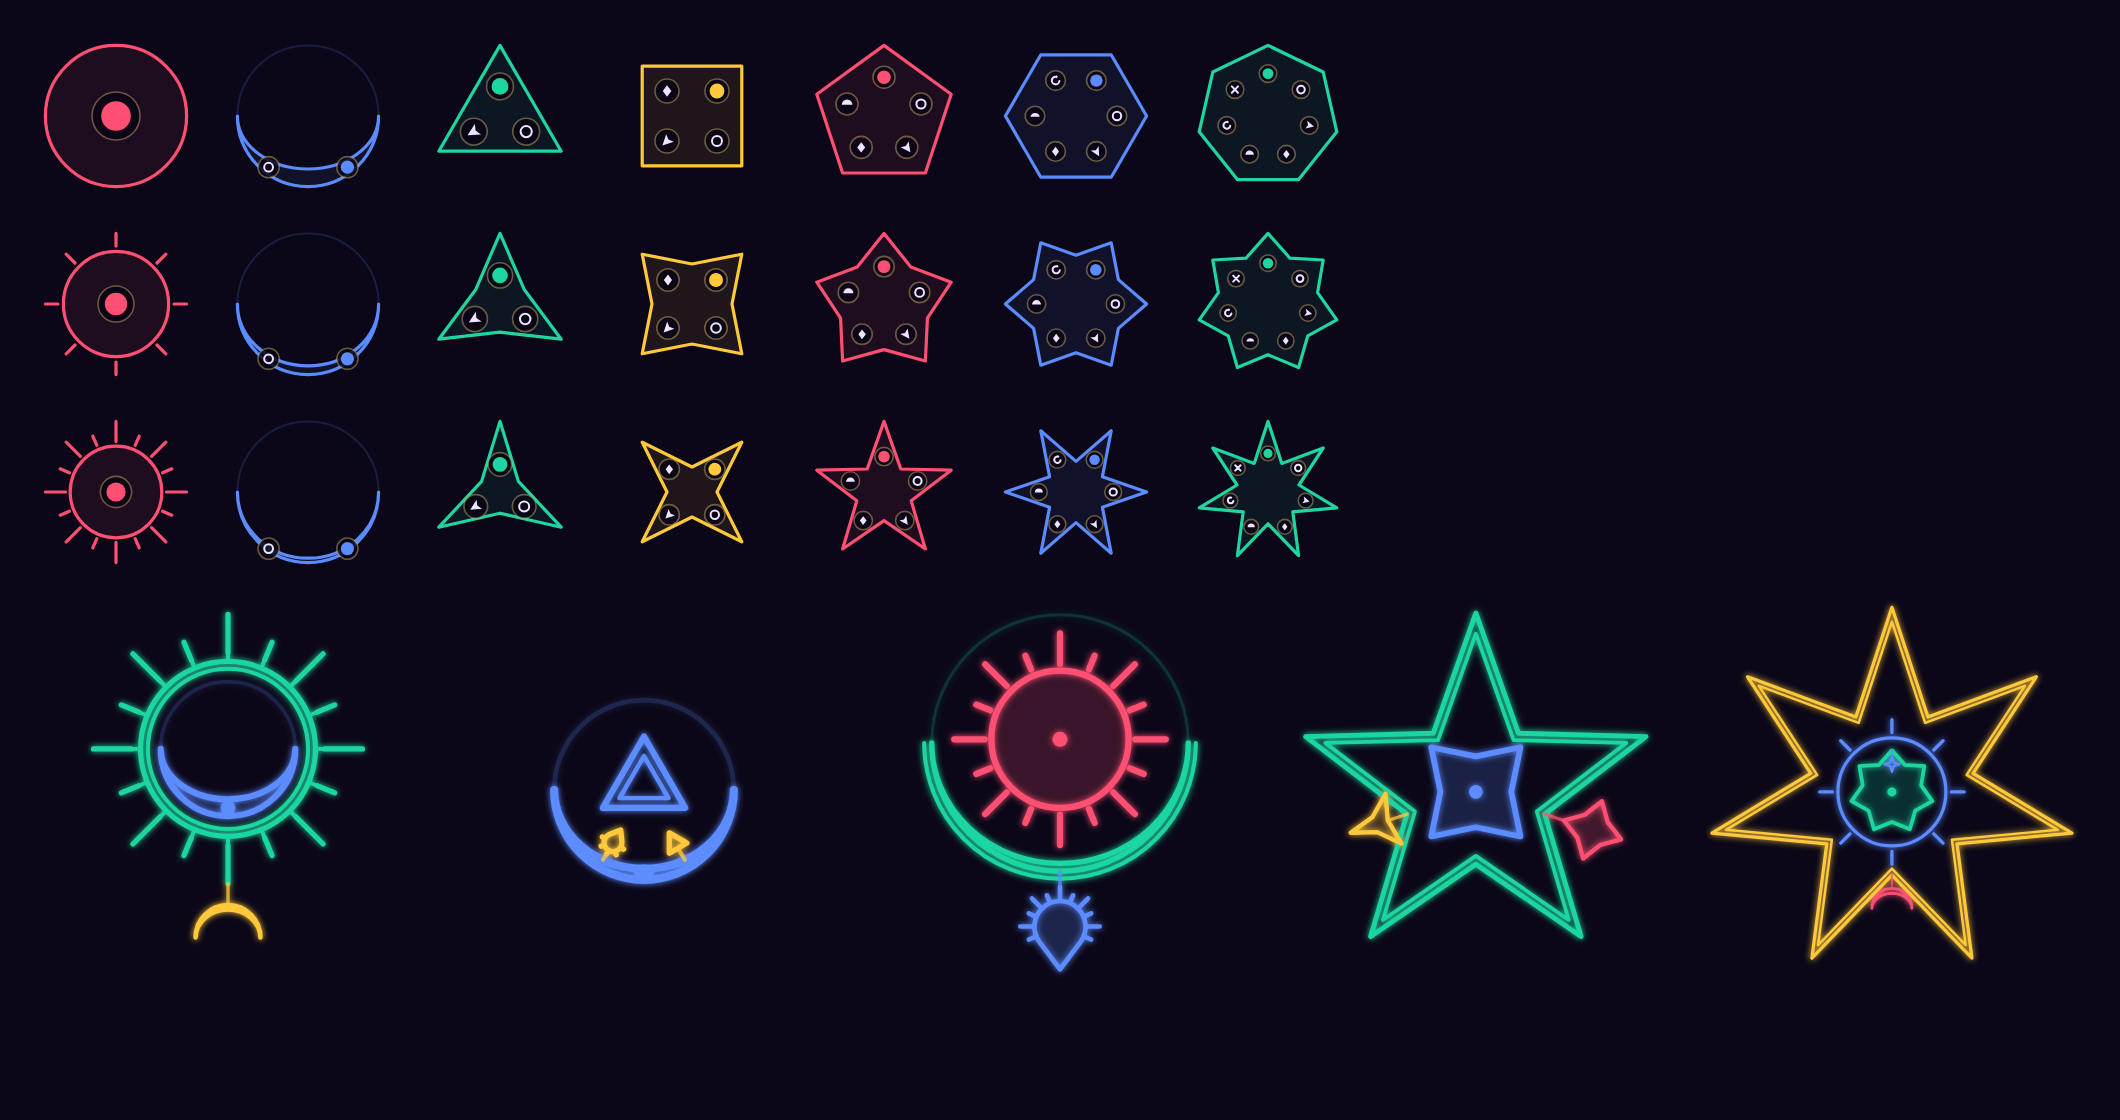
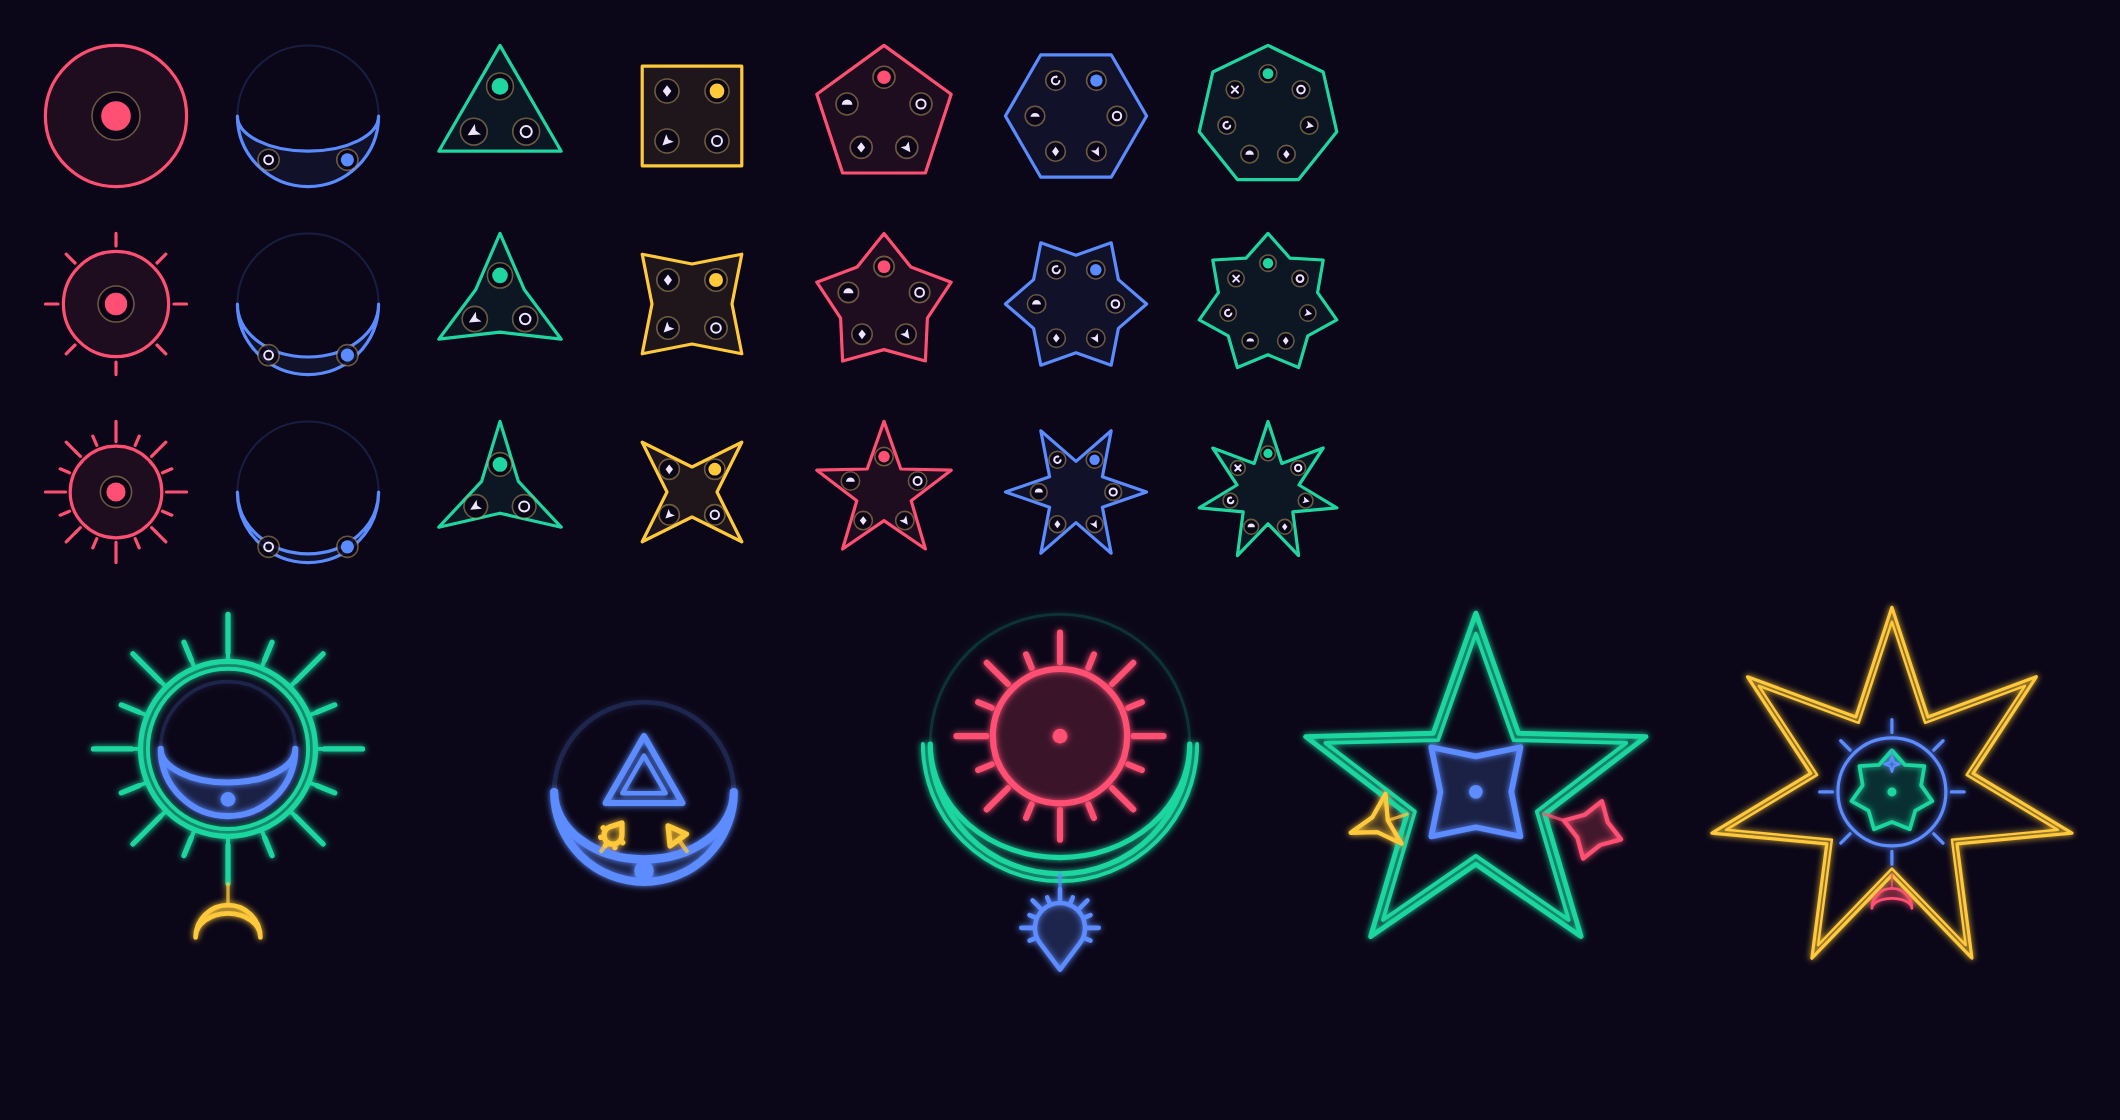
Crescents twice as thick: a 1/8 moon is half the radius thick
A 1/4 moon is half the disc, so a common (1/8) crescent is half its radius
thick, uncommon (1/16) a quarter, rare (1/32) an eighth.

Claude-Session: https://claude.ai/code/session_01WvfkwgKJcv8AcWi9Zvu5rp

diff --git a/src/ui/draw.ts b/src/ui/draw.ts
@@ -54,16 +54,19 @@ function raysPath(r: number, cx: number, cy: number, rotDeg: number, rarity: Rar
   return d
 }
 
-/** How much of the moon a crescent shows lit: an eighth when common, a sixteenth when uncommon, a thirty-second when rare. */
-const MOON_LIT: Record<Rarity, number> = { common: 1 / 8, uncommon: 1 / 16, rare: 1 / 32 }
+/**
+ * A crescent's moon: a 1/8 moon when common, 1/16 uncommon, 1/32 rare. A 1/4
+ * (quarter) moon is half the disc, as thick as its radius, so a 1/8 moon is
+ * half the radius thick, a 1/16 a quarter, a 1/32 an eighth.
+ */
+const MOON_PHASE: Record<Rarity, number> = { common: 1 / 8, uncommon: 1 / 16, rare: 1 / 32 }
 
 /**
  * How far below the horns a crescent's terminator dips, as a share of the
  * radius. The lit limb runs round the bottom half and the terminator is a
- * half-ellipse, so the crescent is 1 − depth thick at its middle: a quarter of
- * the radius for a common (eighth) moon.
+ * half-ellipse, so the crescent is 1 − depth thick at its middle.
  */
-export const moonDepth = (rarity: Rarity = 'common') => 1 - 2 * MOON_LIT[rarity]
+export const moonDepth = (rarity: Rarity = 'common') => 1 - 4 * MOON_PHASE[rarity]
 
 /** Whether a body is a polygon: a triangle or more sides. */
 export const isGon = (body: Body) => SIDES[body] >= 3

diff --git a/src/ui/draw.test.ts b/src/ui/draw.test.ts
@@ -72,9 +72,9 @@ describe('rarity as stars', () => {
     expect(rays(bodyPath('circle', 10, 0, 0, 0, false, 'uncommon'))).toBe(8)
     expect(rays(bodyPath('circle', 10, 0, 0, 0, false, 'rare'))).toBe(16)
     expect(sunReach('rare')).toBeGreaterThan(sunReach('uncommon'))
-    // An eighth, a sixteenth and a thirty-second of the moon lit: a quarter, an eighth and a sixteenth of the radius thick.
-    expect(1 - moonDepth('common')).toBeCloseTo(0.25)
-    expect(1 - moonDepth('uncommon')).toBeCloseTo(0.125)
-    expect(1 - moonDepth('rare')).toBeCloseTo(0.0625)
+    // A 1/8, 1/16 and 1/32 moon, where a 1/4 moon is half the disc: half, a quarter and an eighth of the radius thick.
+    expect(1 - moonDepth('common')).toBeCloseTo(0.5)
+    expect(1 - moonDepth('uncommon')).toBeCloseTo(0.25)
+    expect(1 - moonDepth('rare')).toBeCloseTo(0.125)
   })
 })

diff --git a/DESIGN.md b/DESIGN.md
@@ -23,7 +23,7 @@ A roguelike deckbuilder in the spirit of Balatro: each term you compose sigils f
 | Rune | A card in the deck: a body holding motes in its bowls. |
 | Body | A rune's shape: an N-gon with N bowls, from the circle (a 1-gon) and the crescent (a 2-gon) through triangle, square, pentagon, hexagon and heptagon. It sets links; power belongs to each rune. |
 | Bowl | A slot on a body that holds one mote. An N-gon has N. |
-| Rarity | Common, uncommon or rare, shown in the shape: a polygon grows pointier as a star, a circle (the sun) throws rays, a crescent (the moon) thins from an eighth to a thirty-second lit. |
+| Rarity | Common, uncommon or rare, shown in the shape: a polygon grows pointier as a star, a circle (the sun) throws rays, a crescent (the moon) thins from a 1/8 moon to a 1/32. |
 | Mote | What gives a rune its nature. Gems set the element; ability motes add links, multiply Reach or add Ward. Earned motes fill or replace bowls to upgrade a rune for the rest of the run. |
 | Power | A rune's strength, set by its body. Each join turns it into Force, Reach or Ward. |
 | Links | How many runes a rune holds when it anchors a sigil. |
@@ -108,7 +108,7 @@ A rune is a body holding motes. The body is an N-gon with N bowls, a circle coun
 
 A rune's element is its first gem; a rune without a gem has no element. Mote abilities apply wherever the rune sits in a sigil.
 
-**Rarity shows in the shape.** Runes with the same number of sides are told apart by drawing them as stars: the smaller a star's inner radius, the rarer the rune. A common rune's divots sit on its edges, so it is the regular N-gon; an uncommon rune has shallow divots (inner radius 0.8 of the polygon's); a rare rune is pointy (half). Circles are the sun and crescents the moon, so they show it their own way. A common sun is a plain circle; an uncommon one throws 8 short rays from its surface, a rare one 16 rays, long and short. A crescent is a moon by its lit share: a common one is an eighth lit, a quarter of its radius thick; uncommon a sixteenth; rare a thirty-second, a sliver. A faint line traces the unlit rest of the moon, and what a crescent rings sits in that dark part. In the prototype rarity changes only the drawing. Archetype decks mark their enablers uncommon and their payoffs rare.
+**Rarity shows in the shape.** Runes with the same number of sides are told apart by drawing them as stars: the smaller a star's inner radius, the rarer the rune. A common rune's divots sit on its edges, so it is the regular N-gon; an uncommon rune has shallow divots (inner radius 0.8 of the polygon's); a rare rune is pointy (half). Circles are the sun and crescents the moon, so they show it their own way. A common sun is a plain circle; an uncommon one throws 8 short rays from its surface, a rare one 16 rays, long and short. A crescent is the moon by its phase, where a 1/4 moon is half the disc: a common crescent is a 1/8 moon, half its radius thick; uncommon a 1/16 moon, a quarter; rare a 1/32 moon, an eighth. A faint line traces the unlit rest of the moon, and what a crescent rings sits in that dark part. In the prototype rarity changes only the drawing. Archetype decks mark their enablers uncommon and their payoffs rare.
 
 ![Runes by rarity: each body common, uncommon and rare, and sigils of stars](docs/rune-rarity.png)
 
@@ -643,7 +643,7 @@ Circumgician is built on Pixi.js, TypeScript and Vite, and most of its look is g
 | Is routing through chained circumscribes too strong? | They are the late-run mass engine: earth → air → fire → earth is ×40. Links gate them; tune step costs and yields if loops arrive too early |
 | Names: working title, the currency? | Open. Settled: a card is a rune; what you cast is a sigil |
 | Does a commission finish the moment it is in band, or when the player seals it? | Settled: the moment the amalgam is in range, whether a cast or the commission's own move put it there. Extra product means working off-spec and landing at the end |
-| How do circles and crescents show rarity? | Settled: a rarer sun throws rays; a rarer moon is a thinner crescent, lit an eighth, a sixteenth, a thirty-second |
+| How do circles and crescents show rarity? | Settled: a rarer sun throws rays; a rarer moon is a thinner crescent, a 1/8, 1/16 or 1/32 moon |
 | Should more sides bring more power or links, as well as bowls? | Settled: no. Power belongs to each rune as it is obtained, so a 20-power circle or a 0-power heptagon can exist; reach floors at 1 so a powerless anchor still works |
 | Does a shape's side count cap the reach runes it carries? | Open. The notation sketch hangs three crescents off a triangle and sets four triangles inside a square; the prototype limits joins only by the anchor's links |
 | What does a bigger concentricity trade? | Open: more pay against harsher moves or more traces |

diff --git a/README.md b/README.md
@@ -80,7 +80,7 @@ Every sigil is drawn the way the design doc's notation reads (`src/ui/draw.ts`):
 
 - A crescent holds what it rings, or what is inscribed in it, in its hollow. As a seal, its second line runs parallel to both arcs, the back and the hollow, and closes in shorter horns.
 - Runes are N-gons with N bowls, from the circle (1) and crescent (2) to the heptagon (7). A polygon inside one of its own kind turns half a side, so nested triangles read as halves of a hexagram rather than as a seal's double line.
-- Rarity shows in the shape: common polygons are plain, uncommon have shallow divots, rare are pointy stars. A circle is the sun: uncommon throws 8 short rays, rare 16 long and short. A crescent is the moon, an eighth lit when common, a sixteenth uncommon, a thirty-second rare, with a faint line round its unlit rest. The Sandbox sets any rune's rarity; it changes only the drawing for now. Archetype decks mark their enablers uncommon and payoffs rare.
+- Rarity shows in the shape: common polygons are plain, uncommon have shallow divots, rare are pointy stars. A circle is the sun: uncommon throws 8 short rays, rare 16 long and short. A crescent is the moon by phase, where a 1/4 moon is half the disc: a 1/8 moon when common (half its radius thick), 1/16 uncommon, 1/32 rare, with a faint line round its unlit rest. The Sandbox sets any rune's rarity; it changes only the drawing for now. Archetype decks mark their enablers uncommon and payoffs rare.
 
 ![Runes by rarity](docs/rune-rarity.png)
 
